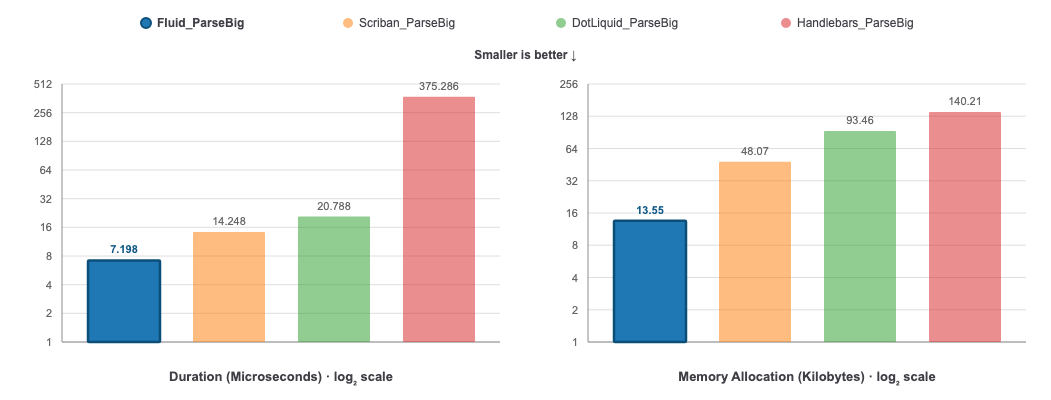
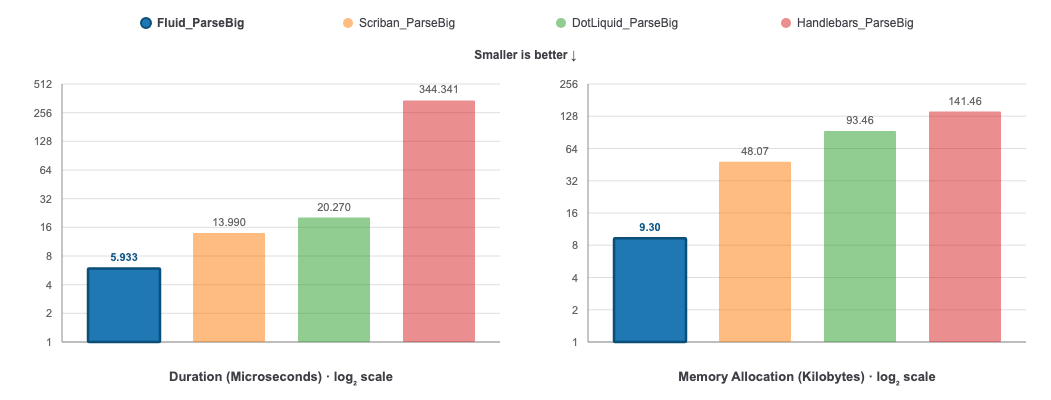
Update README benchmark results (#1240)
Rerun the comparison and static rendering benchmarks and regenerate the charts.
List the hand-written C# reference first in the static rendering table and chart.

diff --git a/Fluid.Benchmarks/StaticRendering/StaticRenderingBenchmarks.cs b/Fluid.Benchmarks/StaticRendering/StaticRenderingBenchmarks.cs
@@ -100,6 +100,29 @@ public class StaticRenderingBenchmarks : BaseBenchmarks
         static string Normalize(string s) => Regex.Replace(s, @"\s+", " ").Trim();
     }
 
+    // What the template compiles to with no engine at all, for reference.
+    [Benchmark, BenchmarkCategory("String")]
+    public string HandWritten_Render()
+    {
+        var encoder = HtmlEncoder.Default;
+        var writer = new StringWriter(new StringBuilder(9 * 1024), CultureInfo.InvariantCulture);
+
+        writer.Write("<ul id='products'>\n");
+        foreach (var product in Products)
+        {
+            writer.Write("    <li>\n      <h2>");
+            encoder.Encode(writer, product.Name);
+            writer.Write("</h2>\n           Only ");
+            writer.Write(product.Price);
+            writer.Write("\n           ");
+            encoder.Encode(writer, StaticRenderingHelpers.Truncate(product.Description, 15));
+            writer.Write("\n    </li>\n");
+        }
+        writer.Write("</ul>\n");
+
+        return writer.ToString();
+    }
+
     [Benchmark(Baseline = true), BenchmarkCategory("String")]
     public string Fluid_Render()
     {
@@ -125,29 +148,6 @@ public class StaticRenderingBenchmarks : BaseBenchmarks
     public string Lissic_Render()
     {
         return _lissicProcessor.RenderToString(CreateLissicModel(), 16 * 1024);
-    }
-
-    // What the template compiles to with no engine at all, for reference.
-    [Benchmark, BenchmarkCategory("String")]
-    public string HandWritten_Render()
-    {
-        var encoder = HtmlEncoder.Default;
-        var writer = new StringWriter(new StringBuilder(9 * 1024), CultureInfo.InvariantCulture);
-
-        writer.Write("<ul id='products'>\n");
-        foreach (var product in Products)
-        {
-            writer.Write("    <li>\n      <h2>");
-            encoder.Encode(writer, product.Name);
-            writer.Write("</h2>\n           Only ");
-            writer.Write(product.Price);
-            writer.Write("\n           ");
-            encoder.Encode(writer, StaticRenderingHelpers.Truncate(product.Description, 15));
-            writer.Write("\n    </li>\n");
-        }
-        writer.Write("</ul>\n");
-
-        return writer.ToString();
     }
 
     [Benchmark(Baseline = true), BenchmarkCategory("Utf8")]

diff --git a/Fluid.Benchmarks/Charts/generate_charts.py b/Fluid.Benchmarks/Charts/generate_charts.py
@@ -63,12 +63,13 @@ CHARTS = [
 ]
 
 # Compiled templates and other static engines, against a parsed Fluid template. Each series is a benchmark method,
-# its label, its color and whether it is highlighted like Fluid.
+# its label, its color and whether it is highlighted like Fluid. The baseline, when there is one, is drawn first.
 STATIC_CHARTS = [
     {
         "file": "benchmark-static-render",
         "title": "Compiled templates and static engines render benchmark comparison",
         "desc": "Duration and memory allocation for {engines} rendering the product template to a string. Smaller values are better.",
+        "baseline": "HandWritten_Render",
         "series": [
             ("Fluid_Render", "Fluid", "#1f77b4", True),
             ("Fluid_SourceGenerated_Render", "Fluid compiled", "#17becf", True),
@@ -211,8 +212,10 @@ def comparison_series(rows, chart):
 
 def render_chart(template, rows, chart, series, old_svg):
     """Renders the series, a list of (method, label, color, highlighted), in the chart's template."""
-    # Fluid first, then the other engines from fastest to slowest.
-    series = [s for s in series if s[3]] + sorted((s for s in series if not s[3]), key=lambda s: rows[s[0]][0])
+    # The baseline first, then Fluid, then the other engines from fastest to slowest.
+    baseline = chart.get("baseline")
+    series = ([s for s in series if s[0] == baseline] + [s for s in series if s[3] and s[0] != baseline]
+              + sorted((s for s in series if not s[3] and s[0] != baseline), key=lambda s: rows[s[0]][0]))
     labels = [label for _, label, _, _ in series]
     duration_top, memory_top = old_axis_tops(old_svg)
 

diff --git a/README.md b/README.md
@@ -2053,25 +2053,25 @@ TL;DR — Fluid is faster and allocates less memory than all other well-known .N
 
 **Parse: Parses a simple HTML template containing filters and properties**
 
-Scriban takes 52% longer to parse and allocates almost 3 times as much memory as Fluid.
+Scriban takes 71% longer to parse and allocates 4 times as much memory as Fluid.
 
 ![Parse benchmark comparison](Assets/benchmark-parse.png)
 
 **ParseBig: Parses a Blog Post template**
 
-Scriban takes almost twice as long to parse and allocates over 3.5 times as much memory as Fluid.
+Scriban takes 2.4 times as long to parse and allocates over 5 times as much memory as Fluid.
 
 ![Large template parse benchmark comparison](Assets/benchmark-parse-big.png)
 
 **Render: Renders a simple HTML template containing filters and properties, with 100 elements**
 
-DotLiquid takes almost 10 times as long to render and allocates 18 times as much memory as Fluid.
-The second best, Handlebars (Mustache), takes 26% longer and allocates over 3 times as much memory.
+DotLiquid takes almost 13 times as long to render and allocates 18 times as much memory as Fluid.
+The second best, Handlebars (Mustache), takes 66% longer and allocates over 3 times as much memory.
 
 ![Render benchmark comparison](Assets/benchmark-render.png)
 
-Tested on 10/29/2026 with
-- Parlot 2.0.0
+Tested on 11/8/2026 with
+- Parlot 2.2.1
 - Scriban 7.5.3
 - DotLiquid 2.3.260
 - Handlebars.Net 2.4.3
@@ -2085,29 +2085,29 @@ Tested on 10/29/2026 with
 ``` text
 BenchmarkDotNet v0.15.8, macOS Sequoia 15.8.2 (24H232) [Darwin 24.6.0]
 Apple M4 Pro, 1 CPU, 14 logical and 14 physical cores
-.NET SDK 11.0.100-rc.2.26504.105
+.NET SDK 11.0.100-rc.3.26522.148
   [Host]   : .NET 10.0.11 (10.0.11, 10.0.1126.37416), Arm64 RyuJIT armv8.0-a
   ShortRun : .NET 10.0.11 (10.0.11, 10.0.1126.37416), Arm64 RyuJIT armv8.0-a
 
 Job=ShortRun  IterationCount=3  LaunchCount=1
 WarmupCount=3
 
-| Method              | Mean       | Error         | StdDev     | Ratio  | RatioSD | Gen0    | Gen1    | Allocated | Alloc Ratio |
-|-------------------- |-----------:|--------------:|-----------:|-------:|--------:|--------:|--------:|----------:|------------:|
-| Fluid_Parse         |   1.640 us |     0.8571 us |  0.0470 us |   1.00 |    0.03 |  0.4101 |  0.0019 |   3.36 KB |        1.00 |
-| Scriban_Parse       |   2.489 us |     0.4374 us |  0.0240 us |   1.52 |    0.04 |  1.2245 |  0.0648 |  10.01 KB |        2.98 |
-| DotLiquid_Parse     |   4.030 us |     0.6436 us |  0.0353 us |   2.46 |    0.06 |  1.9608 |  0.0229 |  16.05 KB |        4.78 |
-| Handlebars_Parse    | 492.983 us |   974.5709 us | 53.4195 us | 300.71 |   29.17 | 15.6250 |  7.8125 | 132.59 KB |       39.47 |
-|                     |            |               |            |        |         |         |         |           |             |
-| Fluid_ParseBig      |   7.198 us |     1.9825 us |  0.1087 us |   1.00 |    0.02 |  1.6556 |  0.0610 |  13.55 KB |        1.00 |
-| Scriban_ParseBig    |  14.248 us |     2.6343 us |  0.1444 us |   1.98 |    0.03 |  5.8746 |  1.1749 |  48.07 KB |        3.55 |
-| DotLiquid_ParseBig  |  20.788 us |     1.8463 us |  0.1012 us |   2.89 |    0.04 | 11.4136 |  0.5188 |  93.46 KB |        6.90 |
-| Handlebars_ParseBig | 375.286 us | 1,012.0915 us | 55.4761 us |  52.14 |    6.71 | 16.6016 |  7.8125 | 140.21 KB |       10.35 |
-|                     |            |               |            |        |         |         |         |           |             |
-| Fluid_Render        |  17.490 us |     2.2822 us |  0.1251 us |   1.00 |    0.01 |  4.4250 |  0.0610 |  36.27 KB |        1.00 |
-| Scriban_Render      |  68.655 us |    17.7318 us |  0.9719 us |   3.93 |    0.05 | 17.0898 |  2.4414 | 140.73 KB |        3.88 |
-| DotLiquid_Render    | 169.235 us |    16.6873 us |  0.9147 us |   9.68 |    0.08 | 80.5664 | 15.3809 | 659.18 KB |       18.17 |
-| Handlebars_Render   |  22.077 us |     5.2115 us |  0.2857 us |   1.26 |    0.02 | 14.5874 |       - | 119.31 KB |        3.29 |
+| Method              | Mean       | Error       | StdDev     | Ratio  | RatioSD | Gen0    | Gen1    | Allocated | Alloc Ratio |
+|-------------------- |-----------:|------------:|-----------:|-------:|--------:|--------:|--------:|----------:|------------:|
+| Fluid_Parse         |   1.411 us |   0.0809 us |  0.0044 us |   1.00 |    0.00 |  0.2975 |       - |   2.45 KB |        1.00 |
+| Scriban_Parse       |   2.419 us |   0.2555 us |  0.0140 us |   1.71 |    0.01 |  1.2245 |  0.0648 |  10.01 KB |        4.09 |
+| DotLiquid_Parse     |   3.879 us |   0.0956 us |  0.0052 us |   2.75 |    0.01 |  1.9608 |  0.0229 |  16.05 KB |        6.56 |
+| Handlebars_Parse    | 440.647 us | 390.3733 us | 21.3977 us | 312.25 |   13.16 | 15.6250 |  7.8125 | 132.63 KB |       54.24 |
+|                     |            |             |            |        |         |         |         |           |             |
+| Fluid_ParseBig      |   5.933 us |   0.1952 us |  0.0107 us |   1.00 |    0.00 |  1.1368 |  0.0153 |    9.3 KB |        1.00 |
+| Scriban_ParseBig    |  13.990 us |   3.9269 us |  0.2152 us |   2.36 |    0.03 |  5.8746 |  1.1749 |  48.07 KB |        5.17 |
+| DotLiquid_ParseBig  |  20.270 us |   8.1472 us |  0.4466 us |   3.42 |    0.07 | 11.4136 |  0.5188 |  93.46 KB |       10.05 |
+| Handlebars_ParseBig | 344.341 us | 535.0808 us | 29.3296 us |  58.04 |    4.28 | 16.6016 |  7.8125 | 141.46 KB |       15.22 |
+|                     |            |             |            |        |         |         |         |           |             |
+| Fluid_Render        |  13.454 us |   0.1538 us |  0.0084 us |   1.00 |    0.00 |  4.4250 |  0.0610 |  36.28 KB |        1.00 |
+| Scriban_Render      |  67.609 us |  18.1324 us |  0.9939 us |   5.03 |    0.06 | 17.0898 |  2.4414 | 140.73 KB |        3.88 |
+| DotLiquid_Render    | 170.340 us |  17.5619 us |  0.9626 us |  12.66 |    0.06 | 80.5664 | 15.3809 | 659.18 KB |       18.17 |
+| Handlebars_Render   |  22.341 us |   1.3578 us |  0.0744 us |   1.66 |    0.00 | 14.5874 |       - | 119.31 KB |        3.29 |
 ```
 
 </details>
@@ -2118,13 +2118,13 @@ Some engines compile templates into the application instead of reading them at r
 
 **Render: renders the product template to a string**
 
-Compiled Fluid templates take 31% less time than parsed ones and allocate the same memory. RazorSlices takes 40% less time than parsed Fluid templates and allocates 51% more, and Lissic takes 16% less time and allocates 2.3 times as much. Hand-written C# takes 75% less time, for reference.
+Compiled Fluid templates are the fastest engine: they take 33% less time than parsed ones and allocate the same memory. RazorSlices takes 24% less time than parsed Fluid templates and allocates 51% more, and Lissic takes 7% more time and allocates 2.3 times as much. Hand-written C# takes 68% less time, for reference.
 
 ![Compiled templates and static engines render benchmark comparison](Assets/benchmark-static-render.png)
 
 **Render to UTF-8: renders the product template as UTF-8 to a buffer, like an HTTP response body**
 
-Compiled Fluid templates take 29% less time than parsed ones. RazorSlices is the fastest engine, taking 60% less time than parsed Fluid templates and allocating 70% less. Lissic takes 8% less time and allocates 3.5 times as much when each render copies the products into the template classes it generates. When the same model is built once and reused, it takes 43% less time and allocates nothing.
+Compiled Fluid templates take 31% less time than parsed ones. RazorSlices is the fastest engine, taking 48% less time than parsed Fluid templates and allocating 70% less. Lissic takes 14% more time and allocates 3.5 times as much when each render copies the products into the template classes it generates. When the same model is built once and reused, it takes 21% less time and allocates nothing.
 
 ![Compiled templates and static engines UTF-8 render benchmark comparison](Assets/benchmark-static-render-utf8.png)
 
@@ -2134,7 +2134,7 @@ These engines are faster because the compiler reads the template, not the applic
 - RazorSlices templates are Razor, so they contain C# code and can never come from users. RazorSlices requires ASP.NET Core.
 - Lissic templates have no expressions or conditions, only a choice between branches by a value. The data has to be copied into the classes it generates, and values are only HTML-encoded with a filter.
 
-Tested on 10/29/2026 on the same machine as the results above, with
+Tested on 11/8/2026 on the same machine as the results above, with
 - RazorSlices 0.12.2
 - Lissic 0.1.4
 
@@ -2146,7 +2146,7 @@ Tested on 10/29/2026 on the same machine as the results above, with
 
 BenchmarkDotNet v0.15.8, macOS Sequoia 15.8.2 (24H232) [Darwin 24.6.0]
 Apple M4 Pro, 1 CPU, 14 logical and 14 physical cores
-.NET SDK 11.0.100-rc.2.26504.105
+.NET SDK 11.0.100-rc.3.26522.148
   [Host]     : .NET 10.0.11 (10.0.11, 10.0.1126.37416), Arm64 RyuJIT armv8.0-a
   DefaultJob : .NET 10.0.11 (10.0.11, 10.0.1126.37416), Arm64 RyuJIT armv8.0-a
 
@@ -2154,17 +2154,17 @@ Apple M4 Pro, 1 CPU, 14 logical and 14 physical cores
 ```
 | Method                           | Categories | Mean      | Error     | StdDev    | Ratio | RatioSD | Gen0    | Gen1   | Allocated | Alloc Ratio |
 |--------------------------------- |----------- |----------:|----------:|----------:|------:|--------:|--------:|-------:|----------:|------------:|
-| Fluid_Render                     | String     | 18.123 μs | 0.2042 μs | 0.1810 μs |  1.00 |    0.01 |  4.4250 | 0.0610 |   37145 B |        1.00 |
-| Fluid_SourceGenerated_Render     | String     | 12.477 μs | 0.2108 μs | 0.1972 μs |  0.69 |    0.01 |  4.4098 | 0.0458 |   37081 B |        1.00 |
-| RazorSlices_Render               | String     | 10.796 μs | 0.1158 μs | 0.1083 μs |  0.60 |    0.01 |  6.6833 | 0.7324 |   56112 B |        1.51 |
-| Lissic_Render                    | String     | 15.284 μs | 0.0440 μs | 0.0344 μs |  0.84 |    0.01 | 10.1013 | 1.9836 |   84744 B |        2.28 |
-| HandWritten_Render               | String     |  4.619 μs | 0.0862 μs | 0.0807 μs |  0.25 |    0.00 |  5.3329 | 0.3281 |   44720 B |        1.20 |
+| HandWritten_Render               | String     |  4.805 μs | 0.0949 μs | 0.1015 μs |  0.32 |    0.01 |  5.3329 | 0.3281 |   44720 B |        1.20 |
+| Fluid_Render                     | String     | 14.895 μs | 0.2933 μs | 0.5213 μs |  1.00 |    0.05 |  4.4250 | 0.0610 |   37153 B |        1.00 |
+| Fluid_SourceGenerated_Render     | String     |  9.994 μs | 0.1510 μs | 0.2213 μs |  0.67 |    0.03 |  4.4098 | 0.0458 |   37089 B |        1.00 |
+| RazorSlices_Render               | String     | 11.272 μs | 0.0546 μs | 0.0511 μs |  0.76 |    0.03 |  6.6833 | 0.7324 |   56112 B |        1.51 |
+| Lissic_Render                    | String     | 15.890 μs | 0.1753 μs | 0.1554 μs |  1.07 |    0.04 | 10.1013 | 1.7090 |   84744 B |        2.28 |
 |                                  |            |           |           |           |       |         |         |        |           |             |
-| Fluid_RenderUtf8                 | Utf8       | 17.298 μs | 0.0614 μs | 0.0544 μs |  1.00 |    0.00 |  2.2583 | 0.0305 |   19065 B |        1.00 |
-| Fluid_SourceGenerated_RenderUtf8 | Utf8       | 12.262 μs | 0.0861 μs | 0.0719 μs |  0.71 |    0.00 |  2.2583 | 0.0305 |   19001 B |        1.00 |
-| RazorSlices_RenderUtf8           | Utf8       |  6.987 μs | 0.0866 μs | 0.0810 μs |  0.40 |    0.00 |  0.6866 |      - |    5792 B |        0.30 |
-| Lissic_RenderUtf8                | Utf8       | 15.960 μs | 0.3068 μs | 0.2720 μs |  0.92 |    0.02 |  8.0261 | 1.3733 |   67280 B |        3.53 |
-| Lissic_PrebuiltModel_RenderUtf8  | Utf8       |  9.943 μs | 0.0649 μs | 0.0542 μs |  0.57 |    0.00 |       - |      - |         - |        0.00 |
+| Fluid_RenderUtf8                 | Utf8       | 13.580 μs | 0.1099 μs | 0.1028 μs |  1.00 |    0.01 |  2.2888 | 0.0305 |   19201 B |        1.00 |
+| Fluid_SourceGenerated_RenderUtf8 | Utf8       |  9.417 μs | 0.0597 μs | 0.0559 μs |  0.69 |    0.01 |  2.2736 | 0.0305 |   19137 B |        1.00 |
+| RazorSlices_RenderUtf8           | Utf8       |  7.000 μs | 0.0262 μs | 0.0219 μs |  0.52 |    0.00 |  0.6866 |      - |    5792 B |        0.30 |
+| Lissic_RenderUtf8                | Utf8       | 15.493 μs | 0.1390 μs | 0.1300 μs |  1.14 |    0.01 |  8.0261 | 1.3428 |   67280 B |        3.50 |
+| Lissic_PrebuiltModel_RenderUtf8  | Utf8       | 10.749 μs | 0.0414 μs | 0.0367 μs |  0.79 |    0.01 |       - |      - |         - |        0.00 |
 
 </details>
 
